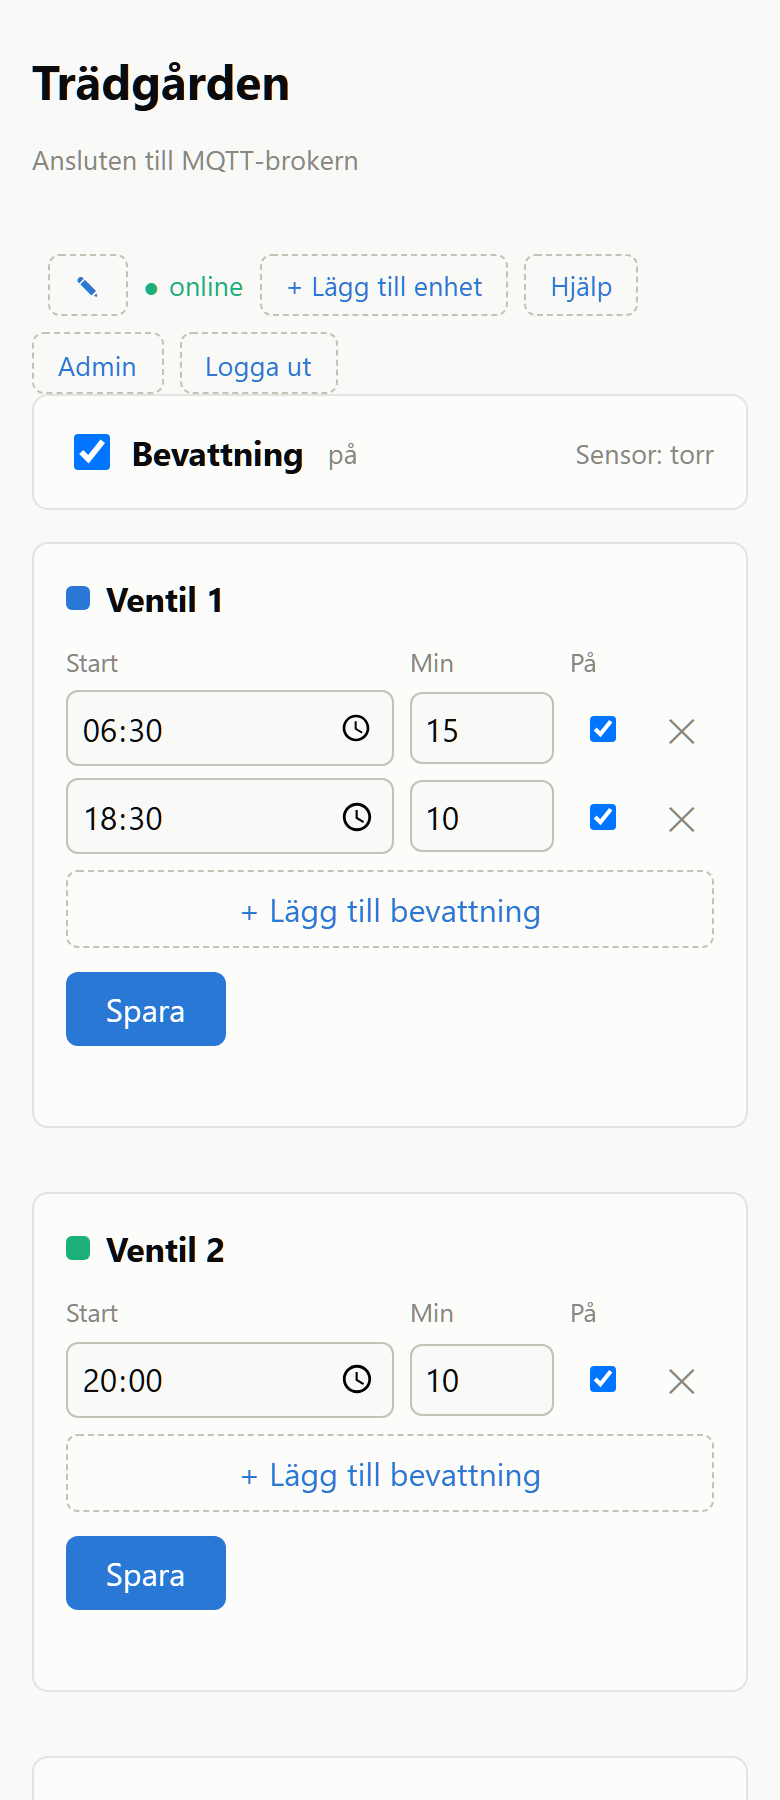
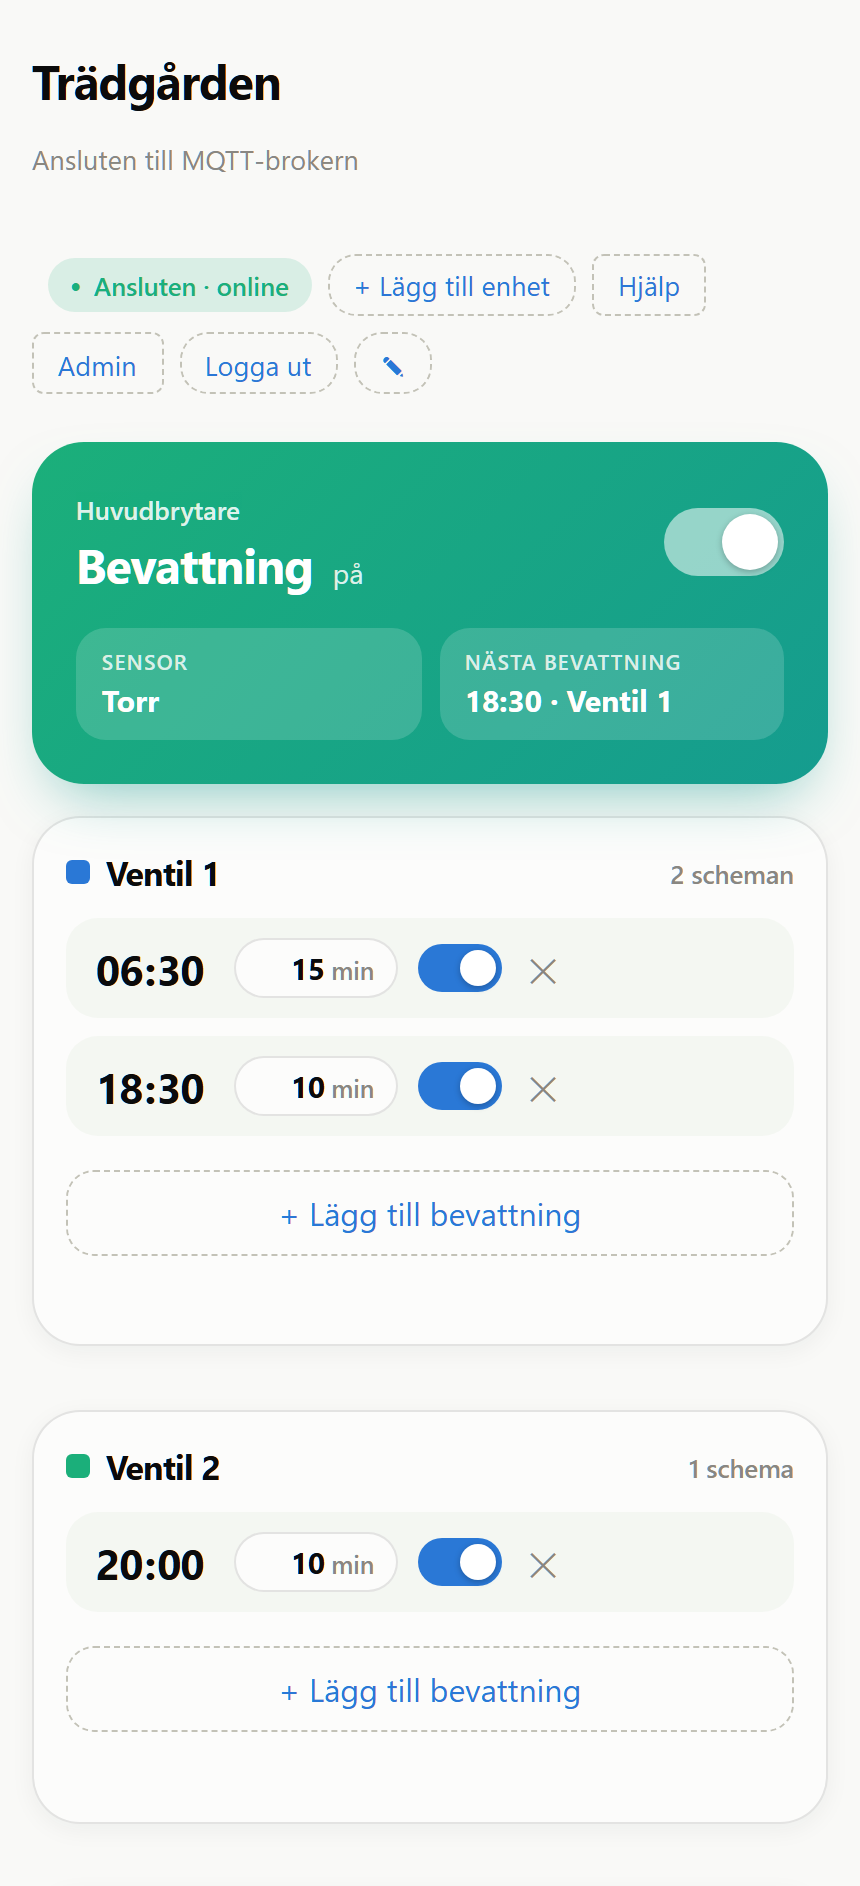
Manual: nya skärmbilder från moderniserade webbappen
skarmdump-app.png och -historik.png togs om mot dev-servern efter
"Lugn trädgård"-designen och autospar-schemat. Alt-texten för
förstasidan uppdaterad till online-etikett + nästa bevattning-rutor.

diff --git a/backend/static/manual.html b/backend/static/manual.html
@@ -56,8 +56,9 @@
   <section class="card">
     <h2>Förstasidan</h2>
     <img class="shot" src="/skarmdump-app.png"
-         alt="Skärmdump av appen: enhetens namn överst, grön online-punkt,
-              huvudbrytaren Bevattning, sensorstatus och schemat för två ventiler">
+         alt="Skärmdump av appen: enhetens namn överst, grön online-etikett,
+              den gröna huvudbrytaren Bevattning med sensor- och nästa
+              bevattning-rutor, och schemat för två ventiler">
     <ul>
       <li><span class="dot g">● online</span> uppe till höger betyder att
         enheten har kontakt. <span class="dot r">● offline</span> med en